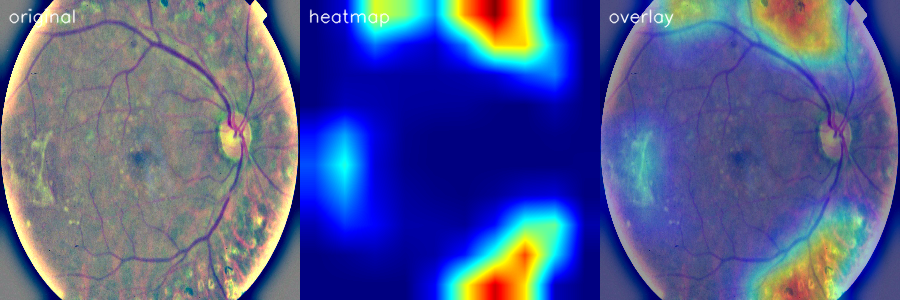
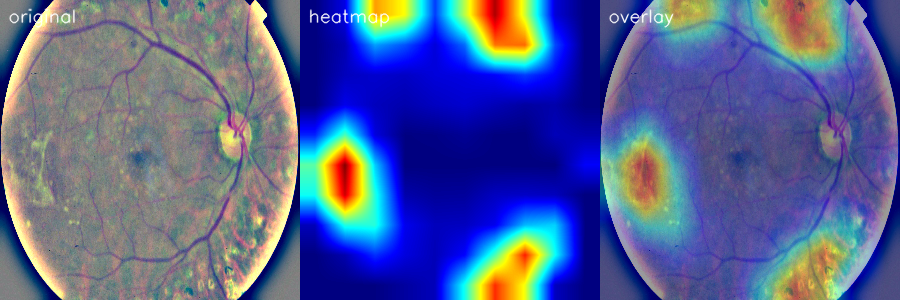
refreshed docs and results for the final 0.90 qwk model

diff --git a/README.md b/README.md
@@ -34,25 +34,25 @@ Proliferative DR case.*
 
 ## Results
 
-EfficientNet-B3 @ 300px with Ben Graham preprocessing, class-weighted +
-label-smoothed loss, cosine LR, EMA weights, and test-time augmentation,
+EfficientNet-B3 @ 300px with Ben Graham preprocessing, a softened class-weighted
++ label-smoothed loss, cosine LR, EMA weights, and test-time augmentation,
 selected on **quadratic weighted kappa** (the standard DR grading metric) over
 the APTOS 2019 validation split (550 images):
 
 | metric                | B0 baseline | B3 (current) |
 | --------------------- | ----------- | ------------ |
-| quadratic kappa (QWK) | 0.78        | **0.868**    |
-| accuracy              | 0.813       | 0.775        |
-| macro F1              | 0.673       | 0.641        |
+| quadratic kappa (QWK) | 0.78        | **0.900**    |
+| accuracy              | 0.813       | **0.840**    |
+| macro F1              | 0.673       | **0.695**    |
 
 ![Confusion matrix](docs/confusion_matrix.png)
 
-QWK improves a lot because most remaining errors are *adjacent* grades (e.g.
-Moderate to Mild), which the ordinal metric barely penalises. Raw accuracy dips
-slightly because the class weighting over-corrects toward the rare grades, so the
-model over-predicts Mild and under-grades Moderate. Softening the class weights
-(see `weight_power` in [config.yaml](ml/config.yaml)) is the clear next lever.
-Reproduce with `python ml/evaluate.py`.
+The B3 model improves on every metric. Ben Graham preprocessing and the larger
+backbone drive the QWK gain, while softening the class weights (`weight_power:
+0.5` in [config.yaml](ml/config.yaml)) keeps accuracy high and Moderate recall
+strong instead of over-predicting Mild. No DR reaches 0.98 F1 and Moderate 0.80;
+the rare Severe grade (29 validation samples) stays the hardest. Reproduce with
+`python ml/evaluate.py`.
 
 ## Structure
 